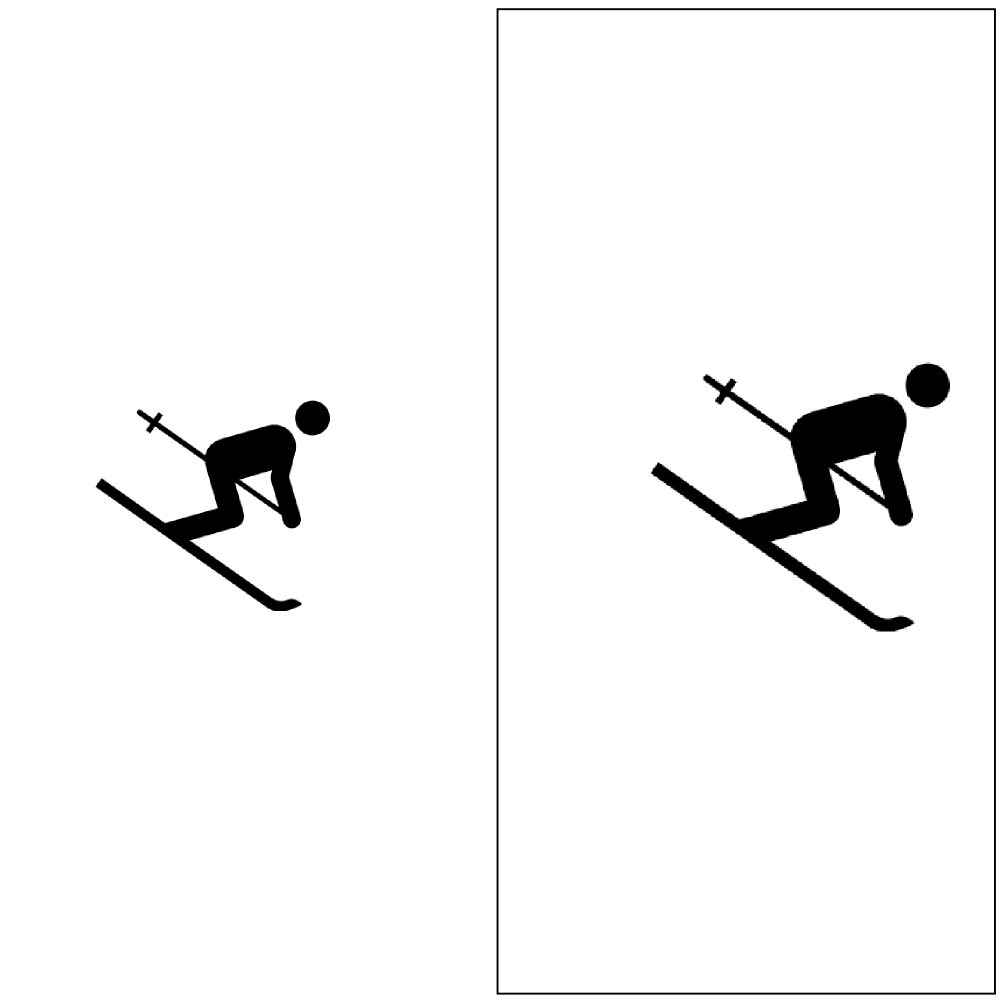
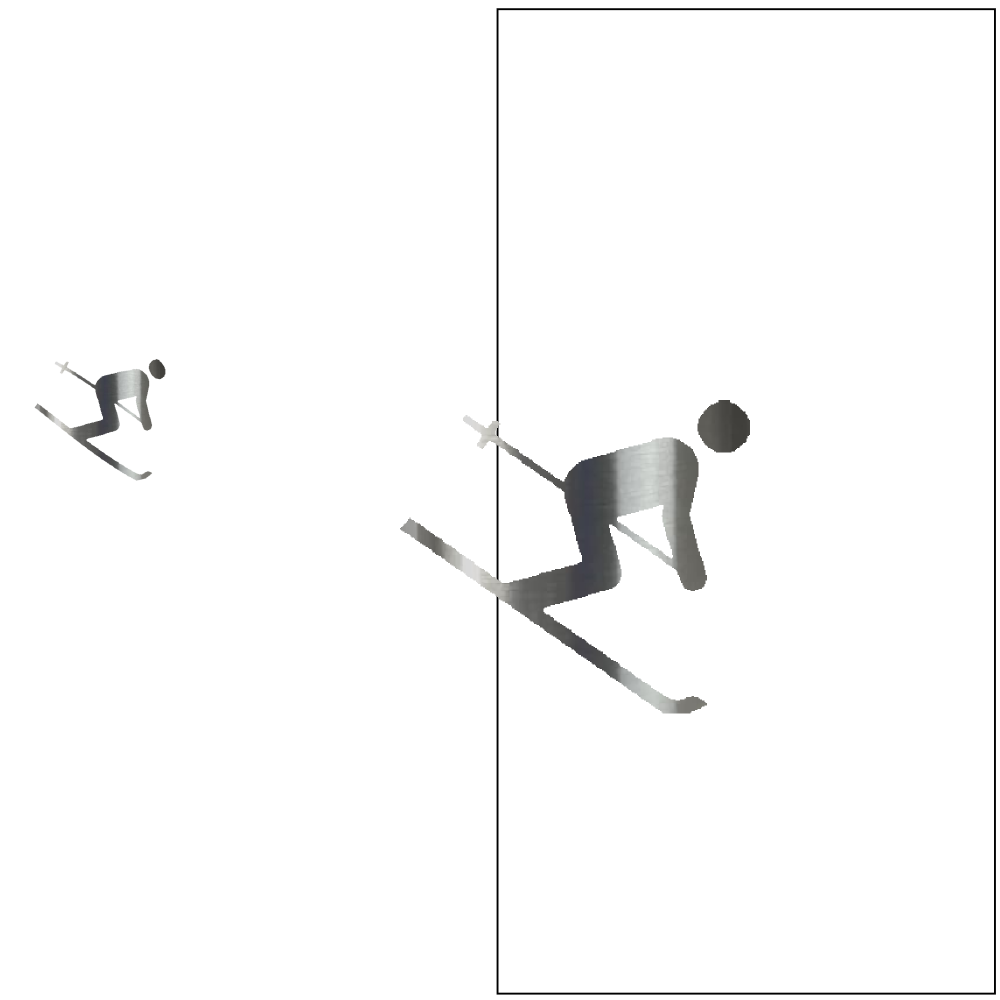
scaling bugfix

diff --git a/ImageLayering.py b/ImageLayering.py
@@ -58,8 +58,6 @@ if customTexture:
         img = Image.open(file)
         name = img.filename
         img = img.convert("RGBA")
-        originalw, originalh = img.size
-        factor = originalw / targetwidth
 
         if trimmen:
             try:
@@ -77,8 +75,15 @@ if customTexture:
                     + ", evtl kein schwarz im bild vorhanden?"
                 )
                 print(+str(error))
+        originalw, originalh = img.size
+        factor = originalw / targetwidth
         if skalieren:
             try:
+                print(originalw)
+                print(targetwidth)
+                print(int(originalh / factor))
+                print(originalh)
+                print(factor)
                 img = img.resize(
                     (targetwidth, int(originalh / factor)), resample=Image.BOX
                 )  # diese zeile droppt den filename ??
@@ -88,6 +93,7 @@ if customTexture:
                 )
                 print("problem beim resizen des bilds mit dem namen: " + name)
                 print(+str(error))
+        img.show()
         img = Util.replaceTexturePrep(img)
         img = Util.imageTransparentPattern(img)
         for file in glob.glob(textureFolder):
@@ -215,7 +221,6 @@ for bg in backgroundlist:
         erg = bg.copy()
         try:
             erg.paste(img, (locationx, locationy), img)
-
             if zweitebild:
                 originalw, originalh = fg.size
                 factor = originalw / targetwidthsecond
